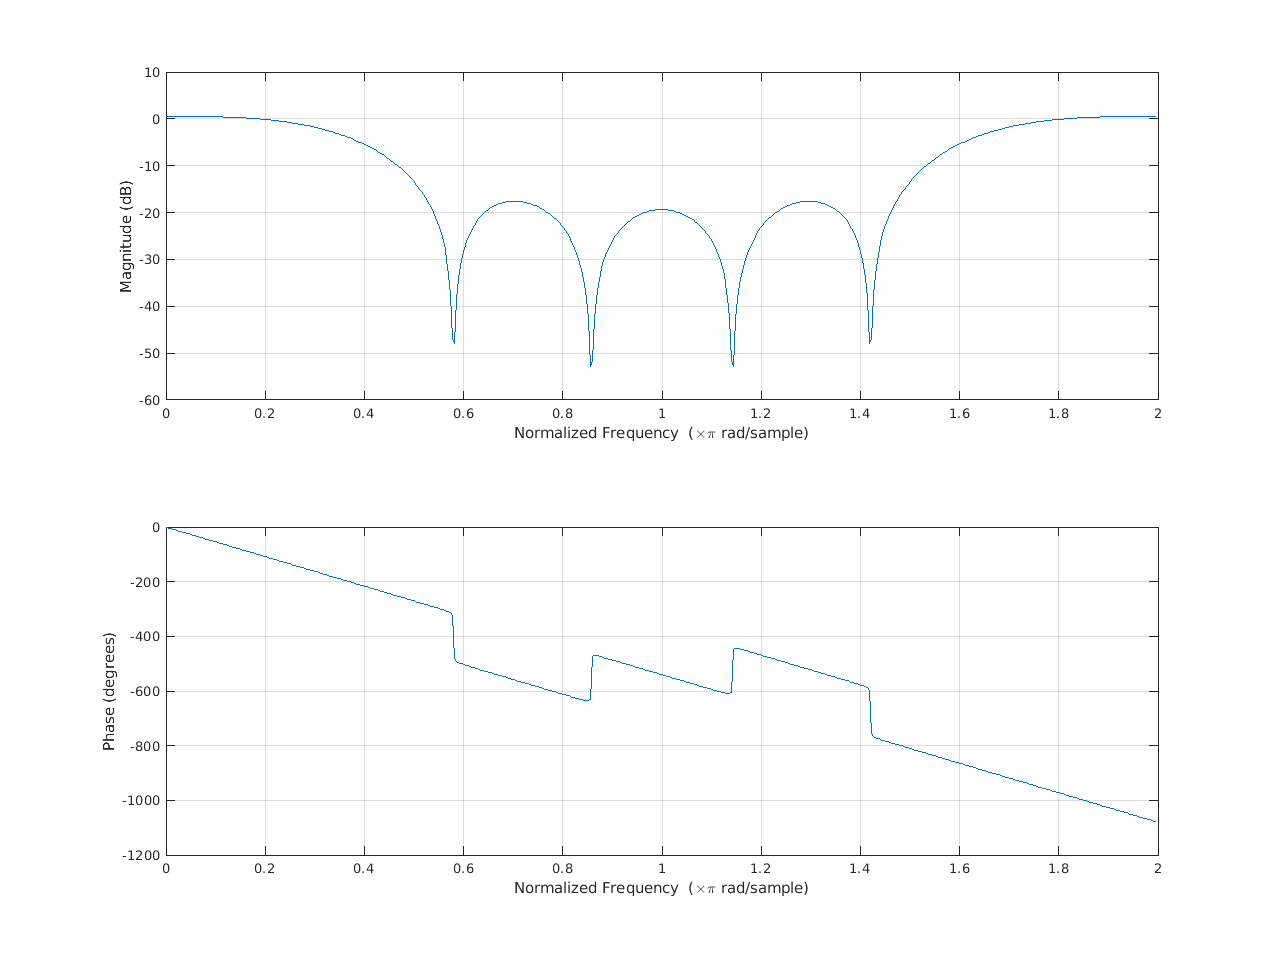
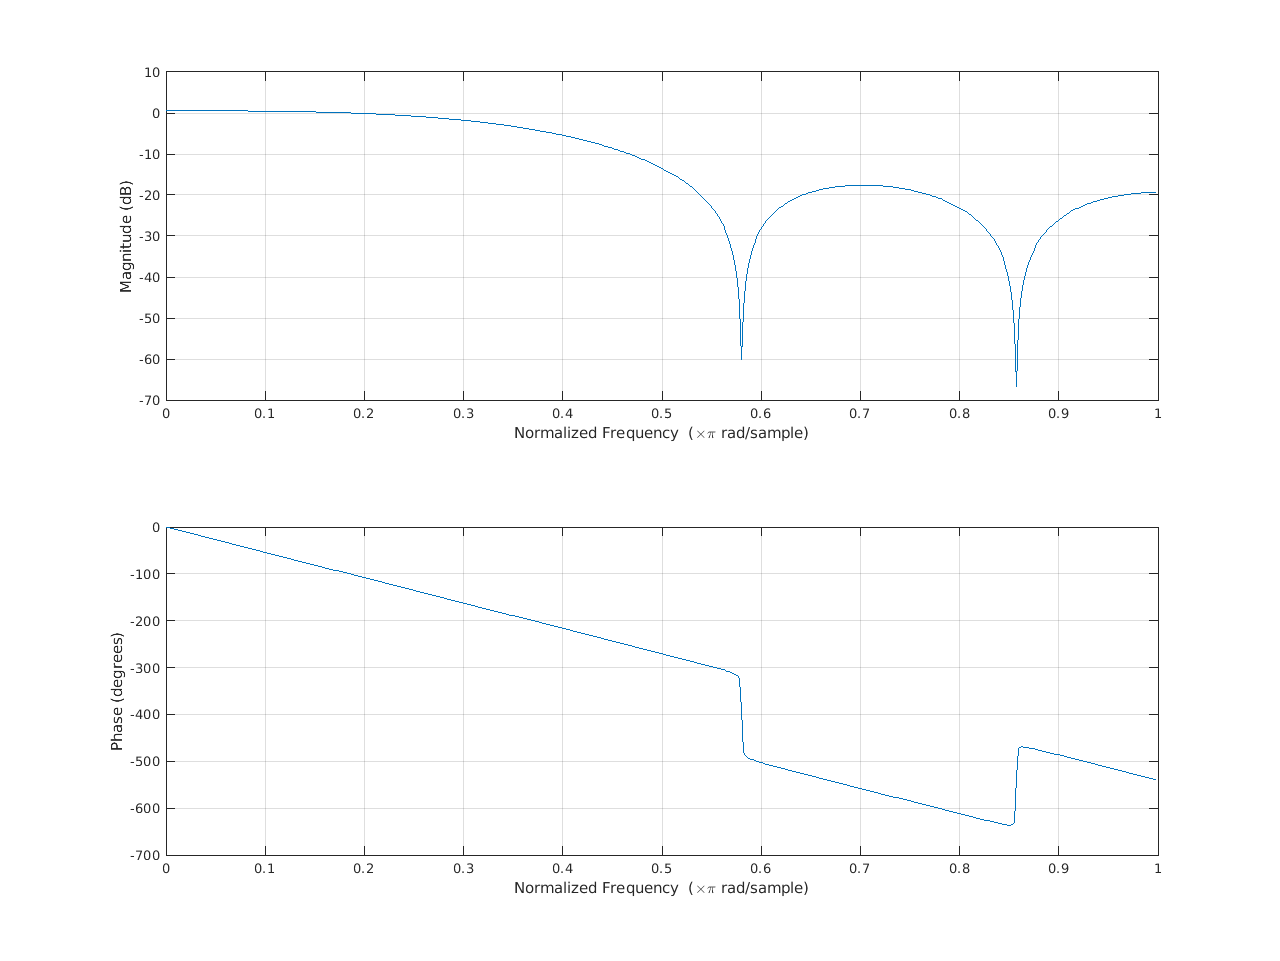
feat(dsys): proc-sin lista 03

diff --git a/case/_exercise/dynamic-systems/22-02-list-03/q14/q14.m b/case/_exercise/dynamic-systems/22-02-list-03/q14/q14.m
@@ -39,5 +39,5 @@ grid on;
 
 % Normalized
 figure;
-freqz(b, a, 'whole');
+freqz(b, a);
 grid on;
